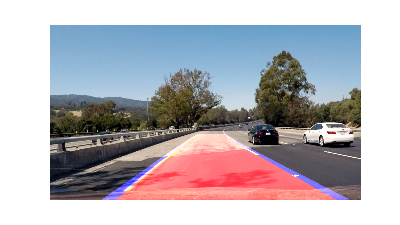
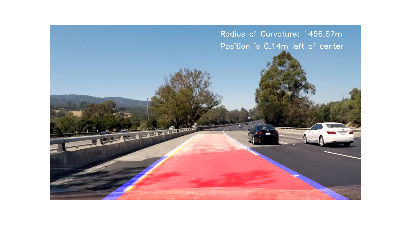
added radius of curvature and position offset

Changed region(s): [[0.54, 0.1244, 0.87, 0.2178]]

diff --git a/viz_finding_lanes.py b/viz_finding_lanes.py
@@ -219,8 +219,40 @@ if __name__ == '__main__':
     color_area = ptransformer.inv_transform(color_area)
     save_single_image(color_area, 'inv_transform_color_area')
 
+
+    # calculate radius of curvature and position offset
+    ym_per_px = 30. / 720. # meters per pixel in y dimension
+    xm_per_px = 3.7 / 700. # meters per pixel in x dimension
+
+    y = np.array(np.linspace(0, 719, num=100))
+    y_eval = np.max(y)
+
+    # calculate radius of curvature of left lane
+    l_x = np.array(list(map(left_poly, y)))
+    l_cur_coef = np.polyfit(y * ym_per_px, l_x * xm_per_px, 2)
+    l_curverad = ((1 + (2 * l_cur_coef[0] * y_eval / 2. + l_cur_coef[1]) ** 2) ** 1.5) / np.absolute(2 * l_cur_coef[0])
+    # calculate radius of curvature of right lane
+    r_x = np.array(list(map(right_poly, y)))
+    r_cur_coef = np.polyfit(y * ym_per_px, r_x * xm_per_px, 2)
+    r_curverad = ((1 + (2 * r_cur_coef[0] * y_eval / 2. + r_cur_coef[1]) ** 2) ** 1.5) / np.absolute(2 * r_cur_coef[0])
+    # get average radius of curvature
+    curverad = np.mean([l_curverad, r_curverad])
+
+    center_poly = (left_poly + right_poly) /2
+    ## set calculated offset to self.offset
+    pos_offset = (input_image.shape[1] / 2 - center_poly(719)) * xm_per_px
+
     # put overlay on original image
     final_result = cv2.addWeighted(input_image, 1, color_area, 1, 0)
+
+    # put calculated radius of curvature and position offset on the image
+    font = cv2.FONT_HERSHEY_SIMPLEX
+    cv2.putText(final_result, 'Radius of Curvature: {:6.2f}m'.format(curverad), (700, 50), 
+                font, 1, (255, 255, 255), 2)
+
+    left_or_right = 'left' if pos_offset < 0 else 'right'
+    cv2.putText(final_result, 'Position is {0:3.2f}m {1} of center'.format(np.abs(pos_offset), left_or_right), 
+                (700, 100), font, 1, (255, 255, 255), 2)
     save_single_image(final_result, 'final_result')
     
     # show all the figures
